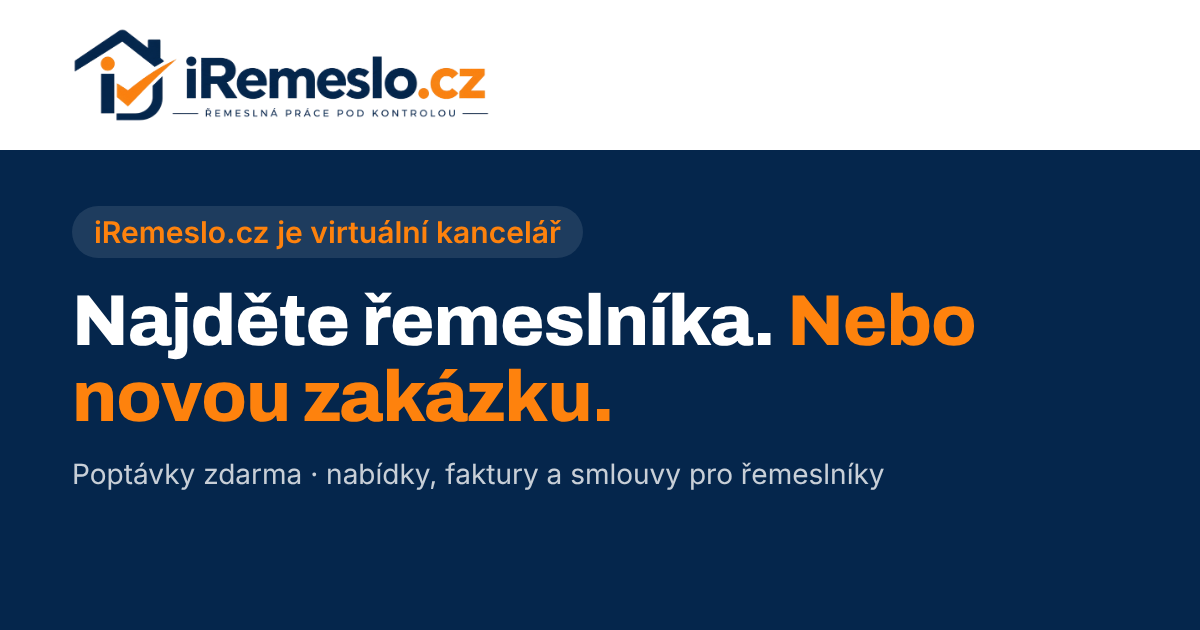
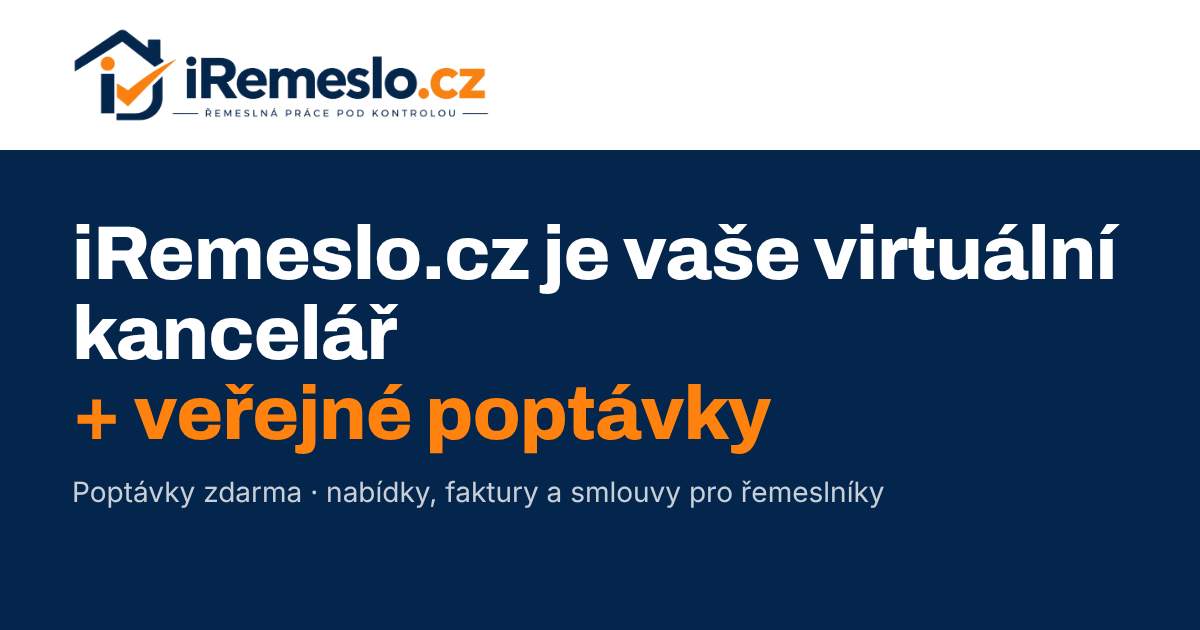
Nový hlavní nadpis: „iRemeslo.cz je vaše virtuální kancelář + veřejné poptávky“
Nadpis úvodní stránky, název webu a obrázek pro sdílení.

Claude-Session: https://claude.ai/code/session_01WgtrhgPWC2XkavhAFjmDu4

Changed region(s): [[0.0617, 0.3016, 0.925, 0.8143]]

diff --git a/apps/web/src/app/page.tsx b/apps/web/src/app/page.tsx
@@ -72,11 +72,8 @@ export default async function Home() {
       <SiteHeader />
       <header className="bg-ink text-white">
         <div className="mx-auto max-w-5xl px-5 pb-14 pt-10 sm:pt-14">
-          <p className="mb-3 inline-block rounded-full bg-white/10 px-3 py-1 text-[14px] font-semibold text-accent sm:text-[15px]">
-            iRemeslo.cz je virtuální kancelář
-          </p>
-          <h1 className="max-w-3xl font-display text-[36px] font-extrabold leading-[1.08] tracking-tight sm:text-[52px]">
-            Najděte řemeslníka. <span className="block text-accent">Nebo novou zakázku.</span>
+          <h1 className="max-w-[60rem] font-display text-[32px] font-extrabold leading-[1.08] tracking-tight min-[390px]:text-[34px] sm:text-[50px]">
+            iRemeslo.cz je vaše virtuální kancelář <span className="block text-accent">+ veřejné poptávky</span>
           </h1>
           <p className="mt-4 max-w-2xl text-[17px] leading-relaxed text-white/80 sm:text-[19px]">
             iRemeslo.cz propojuje zákazníky s řemeslníky. Zákazník zadá poptávku zdarma, řemeslník ji najde,

diff --git a/apps/web/src/app/layout.tsx b/apps/web/src/app/layout.tsx
@@ -8,9 +8,9 @@ import { CtaTracker } from "@/components/CtaTracker";
 import { SITE_URL } from "@/lib/site";
 
 export const metadata: Metadata = {
-  title: { default: "iRemeslo.cz je virtuální kancelář pro řemeslníky a poptávky řemeslných prací", template: "%s · iRemeslo.cz" },
+  title: { default: "iRemeslo.cz je vaše virtuální kancelář + veřejné poptávky", template: "%s · iRemeslo.cz" },
   description:
-    "iRemeslo.cz je virtuální kancelář pro řemeslníky: zakázky, cenové nabídky, faktury, smlouvy o dílo a nové poptávky na jednom místě. Zákazníci zadávají poptávky zdarma a bez registrace.",
+    "iRemeslo.cz je vaše virtuální kancelář + veřejné poptávky. Pro řemeslníky: zakázky, cenové nabídky, faktury, smlouvy o dílo a nové poptávky na jednom místě. Zákazníci zadávají poptávky zdarma a bez registrace.",
   applicationName: "iRemeslo.cz",
   metadataBase: new URL(SITE_URL),
   // Náhled při sdílení (Facebook, WhatsApp, LinkedIn…). Obrázek je app/opengraph-image.png.
